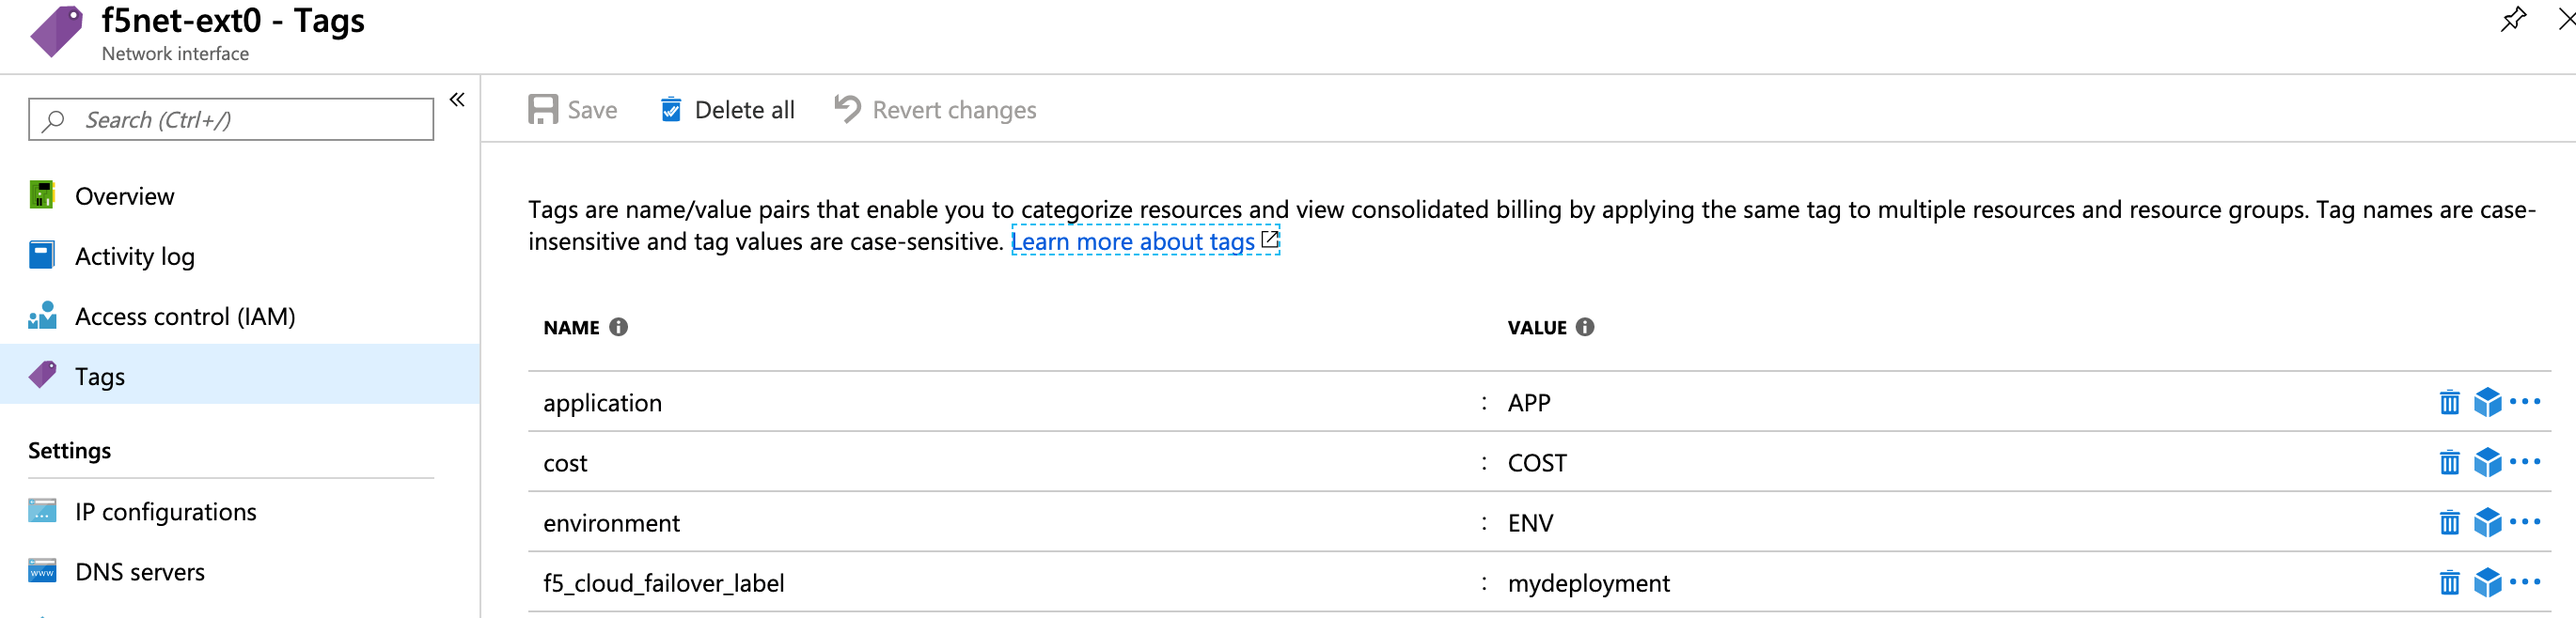
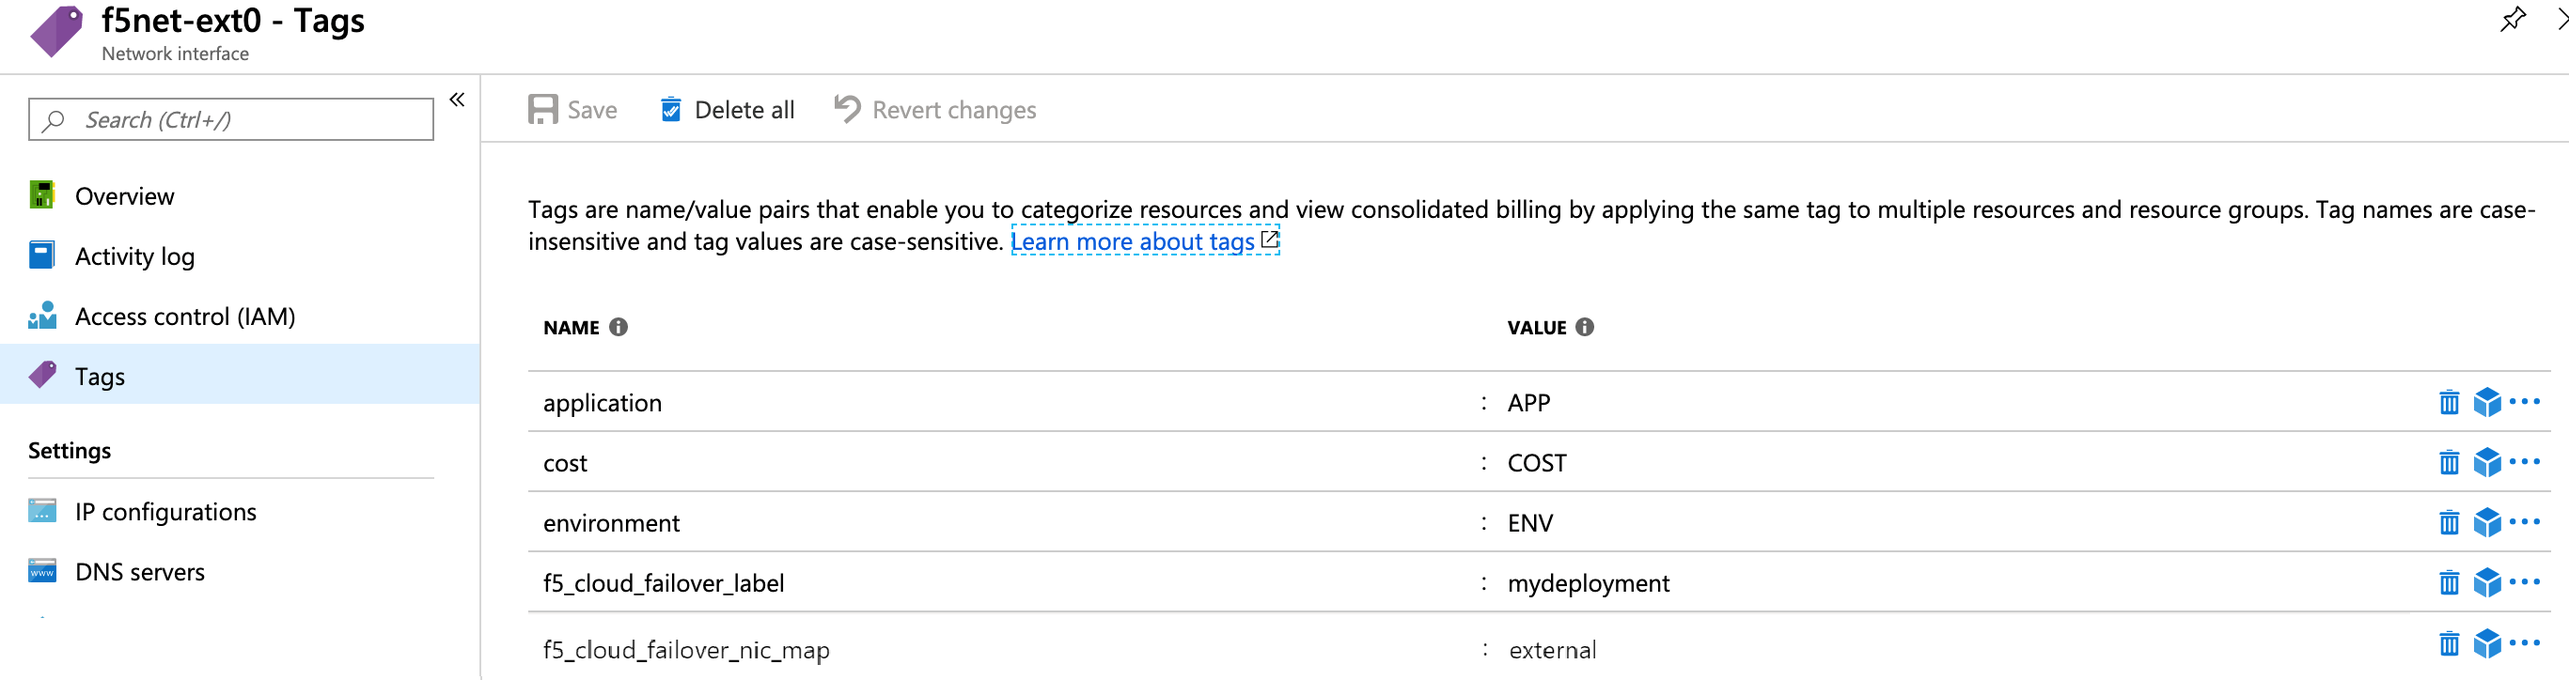
tag info updates

diff --git a/docs/userguide/azure.rst b/docs/userguide/azure.rst
@@ -38,11 +38,11 @@ These are the requirements for setting up Cloud Failover in Microsoft Azure. Mor
   
   .. IMPORTANT:: Ensure the required storage accounts do not have public access.
 
-- **Network Interfaces** that are tagged with a key/value corresponding to the key/value(s) provided in the `failoverAddresses.scopingTags` section of the Cloud Failover extension configuration. See the instructions below for tagging :ref:`azure-nictagging`.
+- **Network Interfaces** that are tagged with a key and value corresponding to the key and value provided in the `failoverAddresses.scopingTags` section of the Cloud Failover extension configuration. See the instructions below for tagging :ref:`azure-nictagging`.
 - **Virtual addresses** created in a traffic group (floating) and matching addresses (secondary) on the IP configurations of the instance NICs serving application traffic
 - **Route(s) in a route table tagged with:**
 
-  - a key/value corresponding to the key/value(s) provided in the `failoverRoutes.scopingTags` section of the Cloud Failover extension configuration
+  - a key tag and a value tag corresponding to the key and value(s) provided in the `failoverRoutes.scopingTags` section of the Cloud Failover extension configuration
   - a special key ``f5_self_ips`` containing a comma-separated list of addresses mapping to a self IP address on each instance in the cluster. For example: ``10.0.0.10,10.0.0.11``
 
   See :ref:`azure-udrtagging` for more information.
@@ -57,11 +57,15 @@ Tagging Azure Network Infrastructure Objects
 Tag your infrastructure with the the labels/value or keys that you sent in your declaration.
 
 
-
 .. _azure-nictagging:
 
 Network Interfaces
 ``````````````````
+For address failover you need two distinct tags:
+
+- Deployment scoping tag: the key and value can be anything. The example below uses ``f5_cloud_failover_label:mydeployment``. 
+- NIC mapping tag: the key is static but the value is user-provided and must match the correcsponding NIC on the secondary BIG-IP. For example, ``f5_cloud_failover_nic_map:<your value>``.
+
 Within Azure, go to **NIC > Tags**.
 
 The network interfaces should have ``f5_cloud_failover_nic_map`` tagged with a specific value. For example, network interface 1 (nic01) and network interface 2 (nic-02) should be tagged with ``f5_cloud_failover_nic_map: external`` to indicate association between the NICs.
@@ -81,6 +85,11 @@ In the example below, each external traffic NIC on both BIG-IP systems is tagged
 
 User-Defined routes
 ```````````````````
+For route failover you need two distinct tags:
+
+- Deployment scoping tag: key and value can be anything, defaults to f5_cloud_failover_label:mydeployment in our examples
+-	Self IP mapping tag: the key is static but the value is user-provided and must contain an array of *one* corresponding self IP for each BIG-IP where the next hop should be pointed. For example, ``f5_self_ips:<self IP on BIG-IP 1>,<self IP on BIG-IP 2>``.
+
 Within Azure, go to **Basic UDR > Tags** to set:
 
 - a key/value corresponding to the key/value(s) provided in the `failoverRoutes.scopingTags` section of the Cloud Failover extension configuration
